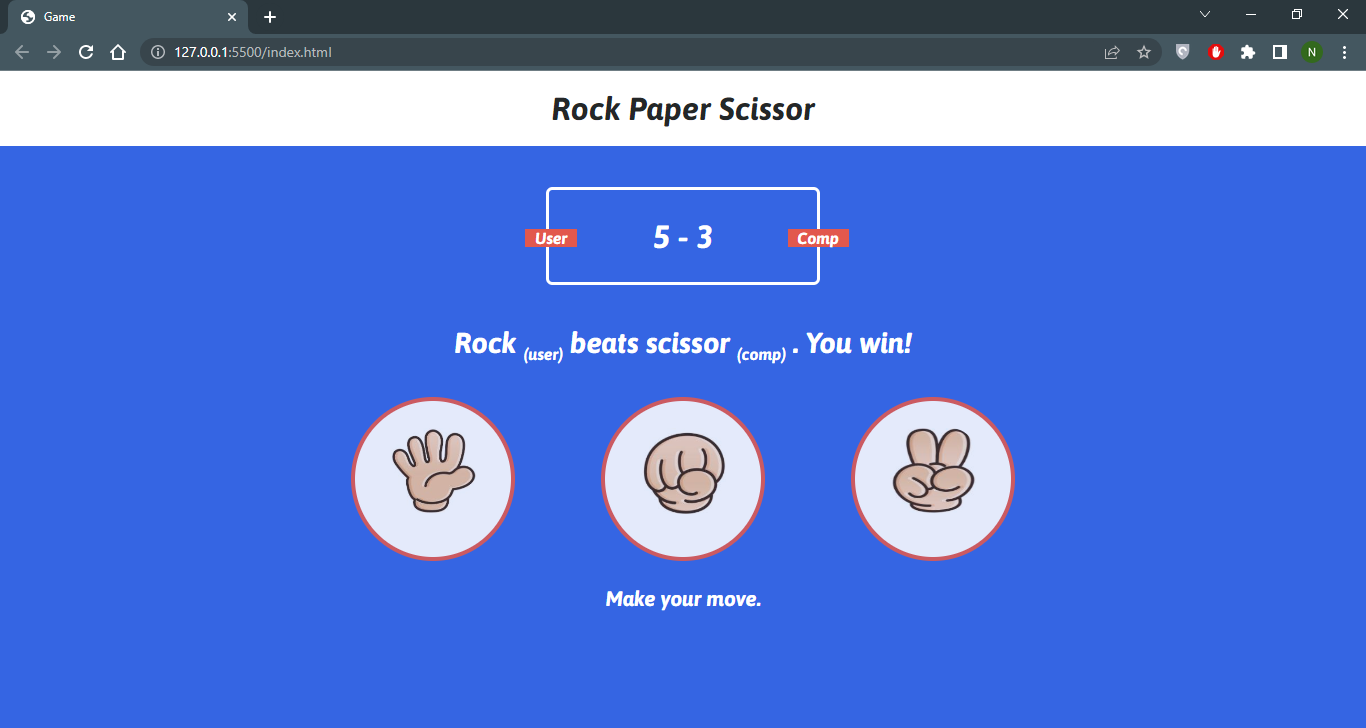
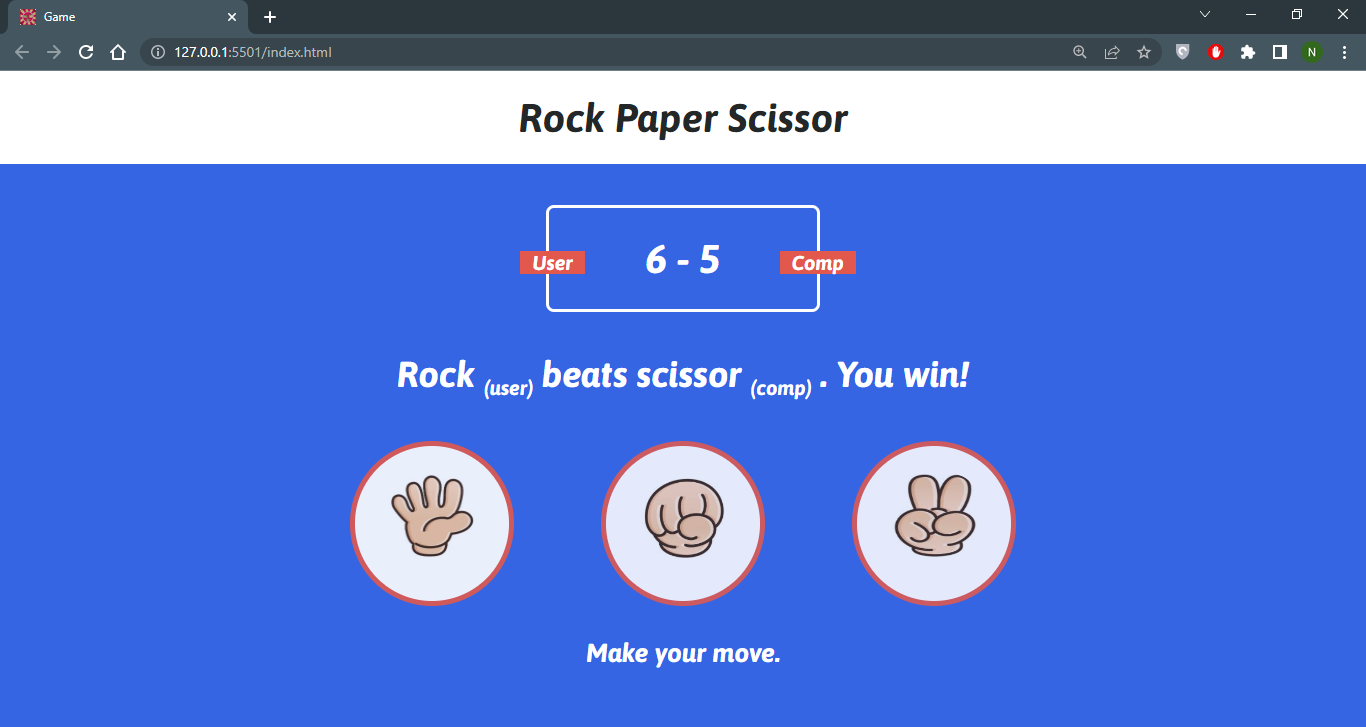
screenshot added

diff --git a/index.html b/index.html
@@ -3,6 +3,7 @@
 <head>
     <meta charset="UTF-8">
     <meta name="viewport" content="width=device-width, initial-scale=1.0">
+    <link rel="shortcut icon" type="image/JPG" href="Img/fav1.JPG"/>
     <link rel="stylesheet" href="CSS/style.css">
     <title>Game</title> 
 </head>
@@ -23,13 +24,13 @@
 
     <div class="choices">
         <div class="choice" id="Paper">
-            <img src="./Img/paper.JPG" alt="">
+            <img src="./IMG/paper.JPG" alt="">
         </div>
         <div class="choice" id="Rock">
-            <img src="./Img/rock.JPG" alt="">
+            <img src="./IMG/rock.JPG" alt="">
         </div>
         <div class="choice" id="scissor">
-            <img src="./Img/scissor.JPG" alt="">
+            <img src="./IMG/scissor.JPG" alt="">
         </div>
     </div>
 

diff --git a/README.md b/README.md
@@ -1,0 +1,9 @@
+# Rock-Paper-Scissor Game
+
+## Awesome Game in which you can play with a computer, check your score and also check computer moves. This is built with HTML, CSS and JavaScript.
+
+## Use
+Try it - [Click Here](https://nitish312.github.io/Rock-Paper-Scissor-Game/)
+
+## Screenshot
+![ss1](https://user-images.githubusercontent.com/94921807/184083916-3e278796-99f6-4b6a-ac3f-0cb87dcde4e4.PNG)
